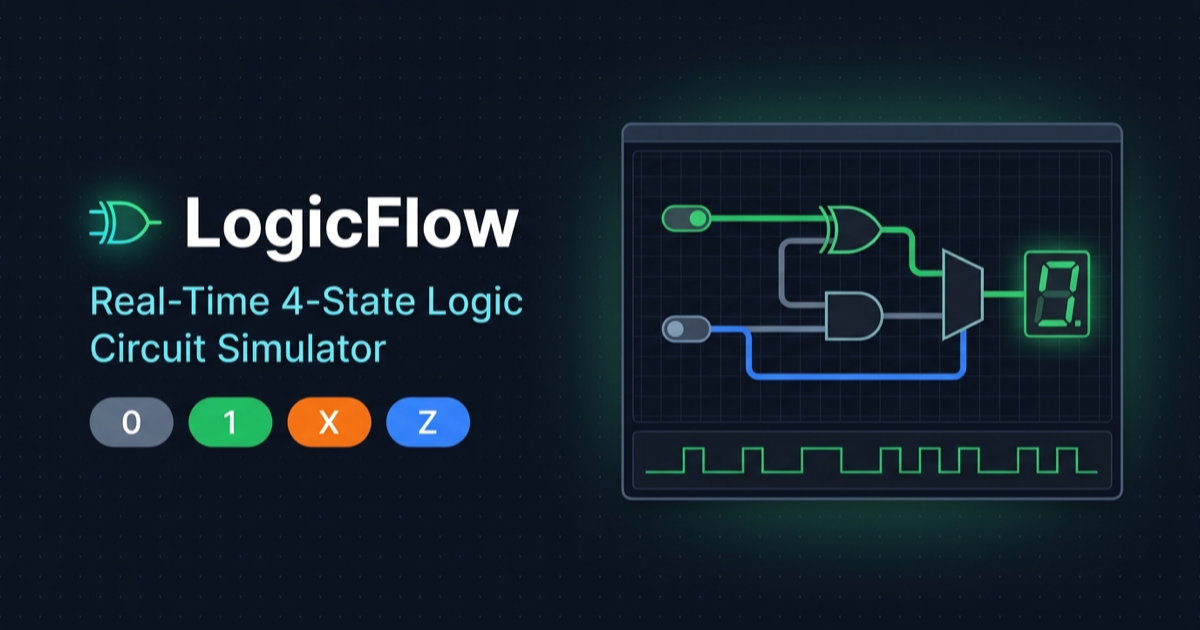
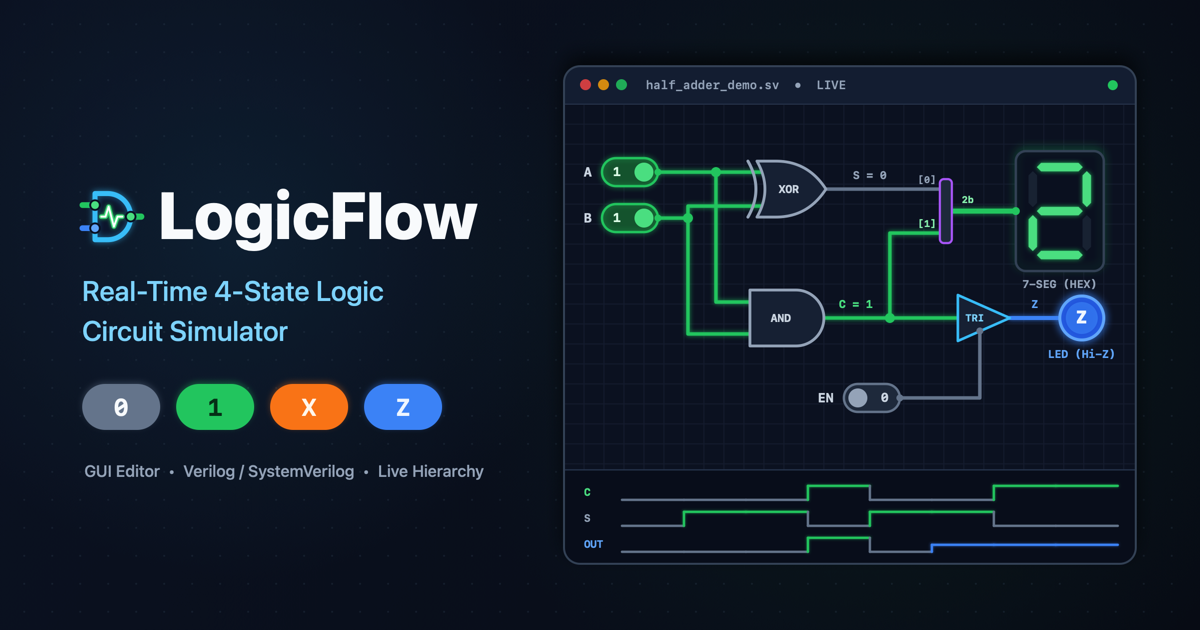
:sparkles: feat: v0.18-r0.0 タブドラッグ並び替え機能＆OGP画像の実回路刷新

diff --git a/src/components/TopBar.tsx b/src/components/TopBar.tsx
@@ -1,4 +1,4 @@
-import React, { useRef } from 'react';
+import React, { useRef, useState } from 'react';
 import {
   Activity,
   Cpu,
@@ -38,6 +38,7 @@ interface TopBarProps {
   onNewCircuit: () => void;
   onNewHdlCircuit: () => void;
   onCloseTab: (id: string) => void;
+  onReorderTabs: (fromId: string, toId: string, position: 'before' | 'after') => void;
   onUndo: () => void;
   onRedo: () => void;
   onToggleSimMode: () => void;
@@ -73,6 +74,7 @@ export const TopBar: React.FC<TopBarProps> = ({
   onNewCircuit,
   onNewHdlCircuit,
   onCloseTab,
+  onReorderTabs,
   onUndo,
   onRedo,
   onToggleSimMode,
@@ -98,6 +100,11 @@ export const TopBar: React.FC<TopBarProps> = ({
 }) => {
   const openFileRef = useRef<HTMLInputElement>(null);
   const importModRef = useRef<HTMLInputElement>(null);
+  const [dragTabId, setDragTabId] = useState<string | null>(null);
+  const [dropHint, setDropHint] = useState<{
+    targetId: string;
+    position: 'before' | 'after';
+  } | null>(null);
   const { settings } = project;
   const openIds = resolveOpenTabIds(project);
   const circuits = openIds.map((id) => project.circuits[id]);
@@ -300,14 +307,60 @@ export const TopBar: React.FC<TopBarProps> = ({
 
       {/* Circuit Tabs Bar */}
       <div className="topbar-row tabs-bar">
-        <div className="tabs-list">
+        <div
+          className="tabs-list"
+          onDragLeave={(e) => {
+            if (!e.currentTarget.contains(e.relatedTarget as Node | null)) {
+              setDropHint(null);
+            }
+          }}
+        >
           {circuits.map((c) => {
             const active = c.id === project.activeCircuitId;
+            const isDragging = dragTabId === c.id;
+            const isDropBefore = dropHint?.targetId === c.id && dropHint.position === 'before';
+            const isDropAfter = dropHint?.targetId === c.id && dropHint.position === 'after';
             return (
               <div
                 key={c.id}
-                className={`circuit-tab ${active ? 'active' : ''} ${c.isStub ? 'stub' : ''}`}
+                className={`circuit-tab ${active ? 'active' : ''} ${c.isStub ? 'stub' : ''} ${isDragging ? 'dragging-tab' : ''} ${isDropBefore ? 'drop-before' : ''} ${isDropAfter ? 'drop-after' : ''}`}
+                draggable={circuits.length > 1}
+                onDragStart={(e) => {
+                  e.dataTransfer.setData('application/logicflow-tab', c.id);
+                  e.dataTransfer.effectAllowed = 'move';
+                  setDragTabId(c.id);
+                }}
+                onDragOver={(e) => {
+                  if (!dragTabId || dragTabId === c.id) return;
+                  e.preventDefault();
+                  e.dataTransfer.dropEffect = 'move';
+                  const rect = e.currentTarget.getBoundingClientRect();
+                  const position: 'before' | 'after' =
+                    e.clientX < rect.left + rect.width / 2 ? 'before' : 'after';
+                  setDropHint((prev) =>
+                    prev && prev.targetId === c.id && prev.position === position
+                      ? prev
+                      : { targetId: c.id, position },
+                  );
+                }}
+                onDrop={(e) => {
+                  e.preventDefault();
+                  const fromId = e.dataTransfer.getData('application/logicflow-tab') || dragTabId;
+                  const rect = e.currentTarget.getBoundingClientRect();
+                  const position: 'before' | 'after' =
+                    e.clientX < rect.left + rect.width / 2 ? 'before' : 'after';
+                  if (fromId && fromId !== c.id) {
+                    onReorderTabs(fromId, c.id, position);
+                  }
+                  setDragTabId(null);
+                  setDropHint(null);
+                }}
+                onDragEnd={() => {
+                  setDragTabId(null);
+                  setDropHint(null);
+                }}
                 onClick={() => onSelectCircuit(c.id)}
+                title={circuits.length > 1 ? `${c.name}（ドラッグでタブの順番を入れ替え）` : c.name}
               >
                 <span className="tab-dot" />
                 <span className="tab-name">{c.name}</span>

diff --git a/tests/debug_watch_popup.test.ts b/tests/debug_watch_popup.test.ts
@@ -18,7 +18,7 @@ import {
 import { importVerilogToCircuits } from '../src/core/hdl';
 import { BIT_0, BIT_1, BIT_X, BIT_Z, fromInt, fromLiteral } from '../src/core/logic4';
 import { createEmptySequentialState, simulateCircuit } from '../src/core/simulator';
-import { closeCircuitTabState, resolveOpenTabIds } from '../src/core/tabs';
+import { closeCircuitTabState, reorderOpenTabIds, resolveOpenTabIds } from '../src/core/tabs';
 import { CircuitDocument, ProjectDocument } from '../src/core/types';
 import { formatAppVersion } from '../src/core/version';
 
@@ -400,5 +400,26 @@ describe('Live Subcircuit Popup & Signal Watch / Waveform Helpers', () => {
     expect(step3.activeCircuitId).toBe('');
     expect(resolveOpenTabIds({ ...p3, openTabIds: step3.openTabIds })).toEqual([]);
     expect(Object.keys(p3.circuits)).toEqual(['c1', 'c2', 'c3', 's1']);
+  });
+
+  it('8. reorders open circuit tabs cleanly before/after target without mutating project', () => {
+    const c1: CircuitDocument = { id: 'c1', name: 'Main', gates: [], wires: [] };
+    const c2: CircuitDocument = { id: 'c2', name: 'Alu', gates: [], wires: [] };
+    const c3: CircuitDocument = { id: 'c3', name: 'Reg', gates: [], wires: [] };
+    const proj = { ...makeProject([c1, c2, c3], 'c1'), openTabIds: ['c1', 'c2', 'c3'] };
+
+    // Move first tab after last tab
+    expect(reorderOpenTabIds(proj, 'c1', 'c3', 'after')).toEqual(['c2', 'c3', 'c1']);
+    // Move first tab before last tab
+    expect(reorderOpenTabIds(proj, 'c1', 'c3', 'before')).toEqual(['c2', 'c1', 'c3']);
+    // Move last tab before first tab
+    expect(reorderOpenTabIds(proj, 'c3', 'c1', 'before')).toEqual(['c3', 'c1', 'c2']);
+    // Move last tab after first tab
+    expect(reorderOpenTabIds(proj, 'c3', 'c1', 'after')).toEqual(['c1', 'c3', 'c2']);
+    // Same tab or unknown ID returns unchanged order
+    expect(reorderOpenTabIds(proj, 'c2', 'c2', 'before')).toEqual(['c1', 'c2', 'c3']);
+    expect(reorderOpenTabIds(proj, 'missing', 'c1', 'before')).toEqual(['c1', 'c2', 'c3']);
+    // Original openTabIds was not mutated
+    expect(proj.openTabIds).toEqual(['c1', 'c2', 'c3']);
   });
 });

diff --git a/src/store/useProjectStore.ts b/src/store/useProjectStore.ts
@@ -20,7 +20,12 @@ import {
   RuntimeInputOverride,
   simulateCompiledCircuit,
 } from '../core/simulator';
-import { closeCircuitTabState, pickNextActiveTab, resolveOpenTabIds } from '../core/tabs';
+import {
+  closeCircuitTabState,
+  pickNextActiveTab,
+  reorderOpenTabIds,
+  resolveOpenTabIds,
+} from '../core/tabs';
 import {
   CircuitDocument,
   GateInstance,
@@ -462,6 +467,24 @@ export function useProjectStore() {
     setSelectedGateIds(new Set());
     setSelectedWireIds(new Set());
   }, []);
+
+  /** Reorder open circuit tabs via drag-and-drop */
+  const reorderCircuitTabs = useCallback(
+    (fromCircuitId: string, toCircuitId: string, position: 'before' | 'after' = 'before') => {
+      setProject((prev) => {
+        const curTabs = resolveOpenTabIds(prev);
+        const nextTabs = reorderOpenTabIds(prev, fromCircuitId, toCircuitId, position);
+        if (
+          curTabs.length === nextTabs.length &&
+          curTabs.every((id, idx) => id === nextTabs[idx])
+        ) {
+          return prev;
+        }
+        return { ...prev, openTabIds: nextTabs };
+      });
+    },
+    [],
+  );
 
   const updateSymbolConfig = useCallback(
     (circuitId: string, config: ModuleSymbolConfig) => {
@@ -1389,6 +1412,7 @@ export function useProjectStore() {
     createNewHdlCircuit,
     renameCircuit,
     closeCircuitTab,
+    reorderCircuitTabs,
     updateSymbolConfig,
     addGate,
     moveGates,

diff --git a/src/core/tabs.ts b/src/core/tabs.ts
@@ -68,3 +68,27 @@ export function closeCircuitTabState(
     tabHistory: picked.tabHistory,
   };
 }
+
+/**
+ * Reorder open tabs by moving `fromCircuitId` before or after `toCircuitId`.
+ * Returns a new array without mutating `project`.
+ */
+export function reorderOpenTabIds(
+  project: Pick<ProjectDocument, 'openTabIds' | 'circuits'>,
+  fromCircuitId: string,
+  toCircuitId: string,
+  position: 'before' | 'after' = 'before',
+): string[] {
+  const tabs = resolveOpenTabIds(project);
+  if (fromCircuitId === toCircuitId) return tabs;
+  const fromIdx = tabs.indexOf(fromCircuitId);
+  if (fromIdx === -1 || !tabs.includes(toCircuitId)) return tabs;
+
+  const next = tabs.slice();
+  next.splice(fromIdx, 1);
+  const targetIdx = next.indexOf(toCircuitId);
+  if (targetIdx === -1) return tabs;
+  const insertAt = position === 'after' ? targetIdx + 1 : targetIdx;
+  next.splice(insertAt, 0, fromCircuitId);
+  return next;
+}

diff --git a/src/styles.css b/src/styles.css
@@ -240,6 +240,7 @@ body,
 }
 
 .circuit-tab {
+  position: relative;
   display: inline-flex;
   align-items: center;
   gap: 6px;
@@ -251,6 +252,36 @@ body,
   cursor: pointer;
   font-size: 12px;
   font-weight: 500;
+  transition:
+    background 0.12s,
+    border-color 0.12s,
+    opacity 0.12s;
+}
+
+.circuit-tab.dragging-tab {
+  opacity: 0.42;
+  cursor: grabbing;
+}
+
+.circuit-tab.drop-before::before,
+.circuit-tab.drop-after::after {
+  content: '';
+  position: absolute;
+  top: 3px;
+  bottom: 3px;
+  width: 2.5px;
+  border-radius: 2px;
+  background: var(--accent-blue);
+  box-shadow: 0 0 8px rgba(56, 189, 248, 0.85);
+  pointer-events: none;
+}
+
+.circuit-tab.drop-before::before {
+  left: -3px;
+}
+
+.circuit-tab.drop-after::after {
+  right: -3px;
 }
 
 .circuit-tab:hover {

diff --git a/src/App.tsx b/src/App.tsx
@@ -616,6 +616,7 @@ export const App: React.FC = () => {
         onNewCircuit={() => store.createNewCircuit()}
         onNewHdlCircuit={handleNewHdlCircuit}
         onCloseTab={store.closeCircuitTab}
+        onReorderTabs={store.reorderCircuitTabs}
         onUndo={store.undo}
         onRedo={store.redo}
         onToggleSimMode={() => {

diff --git a/public/sw.js b/public/sw.js
@@ -2,7 +2,7 @@
 // - Network-first for HTML navigations so Cloudflare Workers deploys update immediately
 // - Stale-while-revalidate for same-origin static assets for instant offline startup
 
-const CACHE_NAME = 'logicflow-static-v0.17-r1';
+const CACHE_NAME = 'logicflow-static-v0.18';
 const PRECACHE_URLS = [
   '/',
   '/index.html',

diff --git a/docs/features.md b/docs/features.md
@@ -33,7 +33,7 @@ generated:
   - **PWA 対応**: Web App Manifest と軽量 Service Worker により、PC・スマートフォンへのホーム画面インストールおよびオフライン起動に対応。
 - **スマートフォン対応 & サイドバー／ポップアップアニメーション**:
   - 左右サイドバー（コンポーネントパレット・インスペクタ）は各パネルヘッダの切替ボタンで滑らかな左右スライドアニメーション付きで収納でき、非表示時はキャンバス左上／右上にフローティング表示ボタンが現れます。
-  - 上部の回路タブは `×` ボタンで最後の 1 枚まで純粋に閉じることができます（モジュール定義は左パレットに保持）。全タブを閉じた 0 タブ状態では中央にスタート画面（新規作成・HDL 読込・既存モジュールのワンクリック復帰）が表示されます。
+  - 上部の回路タブはドラッグ＆ドロップで順番を入れ替えられるほか、`×` ボタンで最後の 1 枚まで純粋に閉じることができます（モジュール定義は左パレットに保持）。全タブを閉じた 0 タブ状態では中央にスタート画面（新規作成・HDL 読込・既存モジュールのワンクリック復帰）が表示されます。
   - 狭幅画面（`<= 900px`）ではドロワー形式となり、左カタログからパーツを **ドラッグ＆ドロップ（タッチの右方向ドラッグ／長押しドラッグ含む）** した場合は自動でサイドバーが閉じてキャンバスへ配置でき、**タップ** した場合はサイドバーを開いたまま連続配置できます。
   - ライブ内部拡大ポップアップは開閉時に拡大縮小アニメーション付きで表示されます。
 

diff --git a/CHANGELOG.md b/CHANGELOG.md
@@ -6,6 +6,16 @@
 
 ---
 
+## 2026-11-28 — v0.18-r0.0 タブドラッグ並び替え機能＆OGP画像の実回路刷新
+
+### 実施内容
+
+1. **回路タブのドラッグ＆ドロップ並び替え機能** (`src/core/tabs.ts`, `src/store/useProjectStore.ts`, `src/components/TopBar.tsx`, `src/App.tsx`, `src/styles.css`):
+   - 上部タブバーの回路タブをドラッグ＆ドロップで任意の順番に入れ替えられるようにしました（ドラッグ中の挿入位置を示すシアン色のドロップインジケータ付き、順序は `localStorage` へ自動保存）。
+   - DOM 非依存の純粋関数 `reorderOpenTabIds` を `src/core/tabs.ts` に実装し、回帰ユニットテストを `tests/debug_watch_popup.test.ts` に追加しました。
+2. **OGP プレビュー画像 (`public/og-image.png`) を論理的に正確な実回路へ刷新** (`public/og-image.png`, `public/sw.js`):
+   - AI 生成の非実在回路から、トグル入力 (`A=1`, `B=1`) の **半加算回路 (`XOR` → `S=0`, `AND` → `C=1`)**＋2bit バス結合 (`{C, S} = 2'b10`) → **7 セグメントディスプレイ (`2` 表示)**＋**トライステートバッファ (`EN=0` → `Z`)** → **LED (`Hi-Z` 青色発光)**＋同期 4 値波形ストリップを備えた、電気的・論理的に完全に正しい回路プレビューへ刷新しました。
+
 ## 2026-11-28 — v0.17-r2.0 全タブ閉じ対応（純粋なタブ閉鎖・0タブスタート画面）
 
 ### 実施内容

diff --git a/docs/memo.md b/docs/memo.md
@@ -15,5 +15,6 @@ generated:
 
 ## about fixes
 
-## aboud features
+* 
 
+## aboud features
